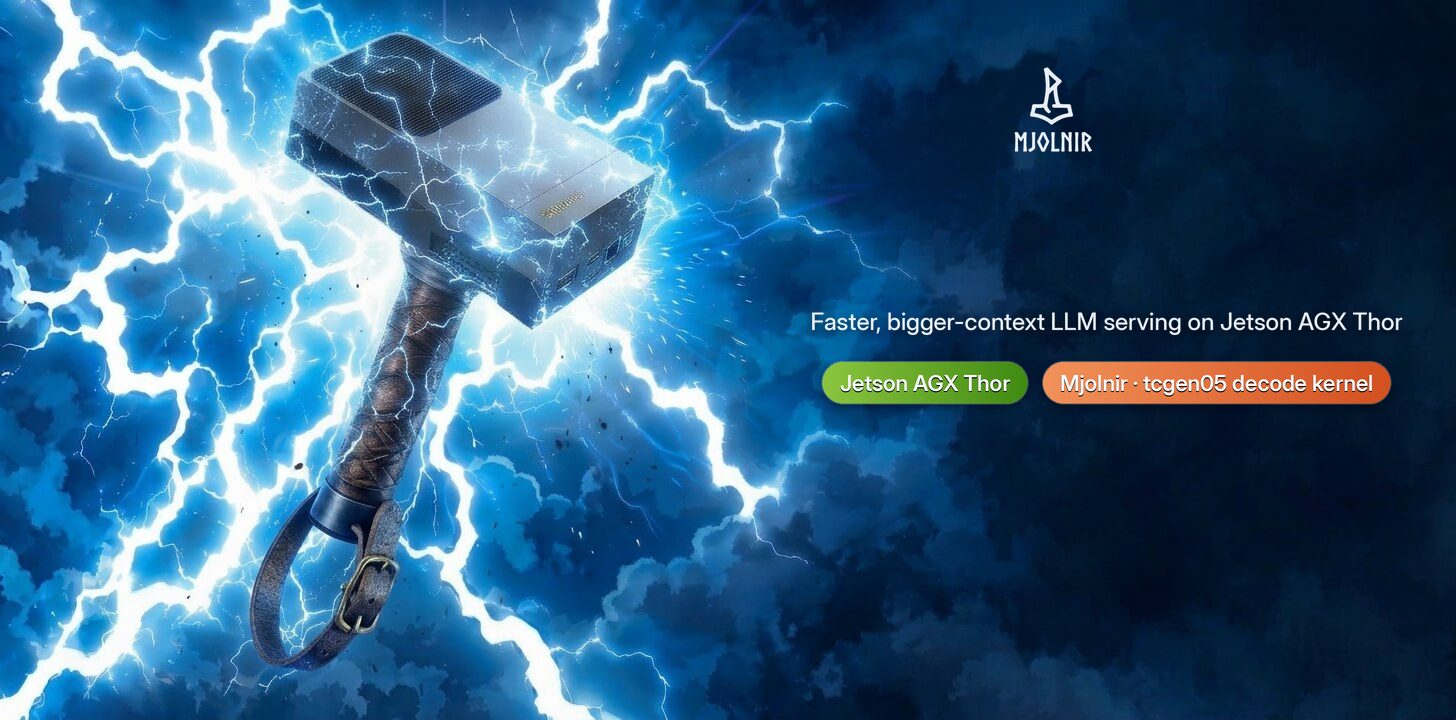
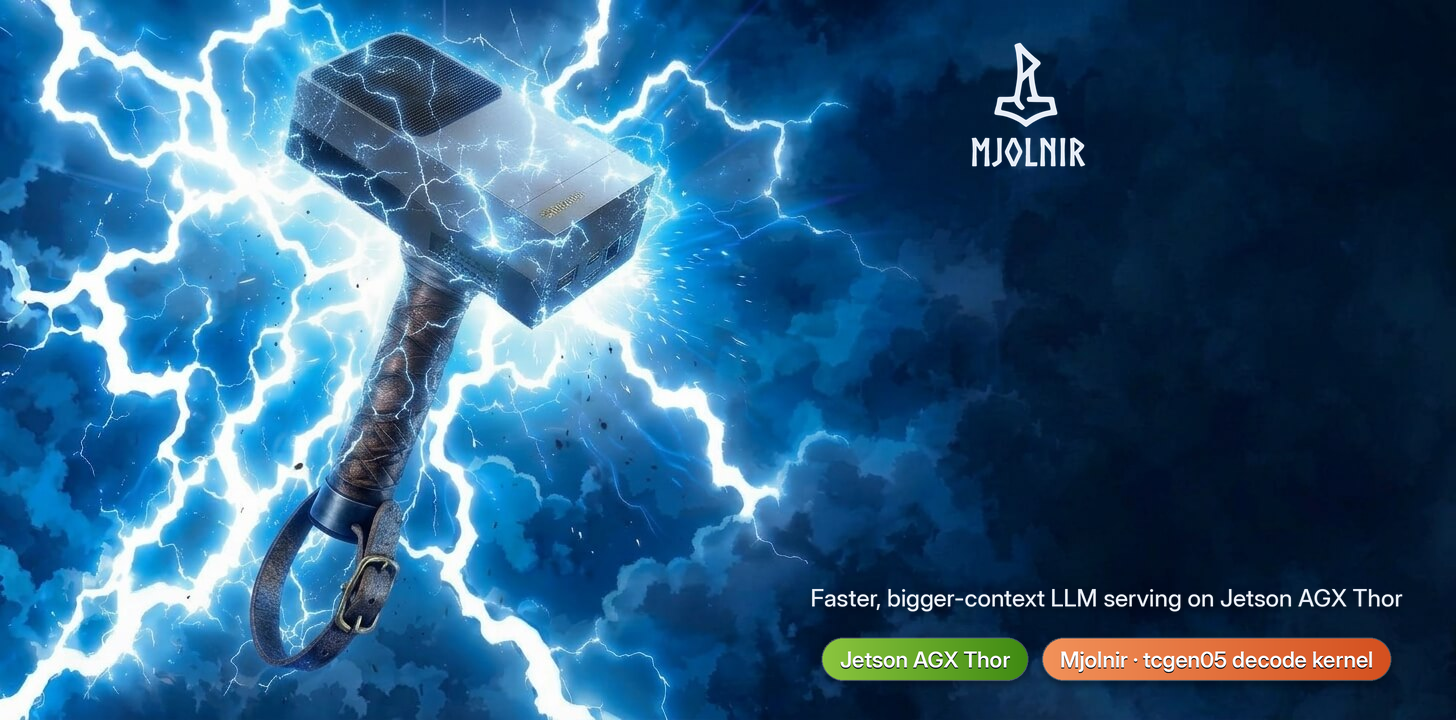
hero composition: a big logotype up top, slogan + pills anchored low

diff --git a/src/mjolnir-cli/mjolnir_cli/charts_e2e.py b/src/mjolnir-cli/mjolnir_cli/charts_e2e.py
@@ -262,15 +262,18 @@ def render_hero(layout: RepoLayout, platform: str | None = None) -> Path | None:
     shadow = Image.new("RGBA", (W * S, H * S), (0, 0, 0, 0))
     d, ds = ImageDraw.Draw(over), ImageDraw.Draw(shadow)
 
-    # the white logotype, centred on the right half
-    logo_h = round(H * 0.30)
-    lw = round(logo_img.size[0] * logo_h / logo_img.size[1])
-    logo = logo_img.resize((lw, logo_h), Image.Resampling.LANCZOS)
-    ly = round(H * 0.08)
-    over.alpha_composite(logo, (round(cx * S - lw * S / 2), ly * S))
+    # the white logotype, centred on the right half: big, near the top
+    logo_h = round(H * 0.44)
+    logo_w = round(logo_img.size[0] * logo_h / logo_img.size[1])
+    if logo_w > 0.40 * W:  # a wide wordmark variant: cap by width instead
+        logo_w = round(0.40 * W)
+        logo_h = round(logo_w * logo_img.size[1] / logo_img.size[0])
+    logo = logo_img.resize((logo_w, logo_h), Image.Resampling.LANCZOS)
+    ly = round(H * 0.04)
+    over.alpha_composite(logo, (round(cx * S - logo_w * S / 2), ly * S))
 
-    # slogan: centred line(s) under the logotype, shrunk to stay inside the
-    # dark right half (the art fills the left ~55%)
+    # slogan: centred line(s), shrunk to stay inside the dark right half
+    # (the art fills the left ~55%), stacked upward to end just above the pills
     slogan = ROOT_HERO_SLOGAN if platform is None else (PLATFORM_HERO_SLOGAN[platform],)
     max_w = 0.42 * W * S
     size = round(H * 0.040)
@@ -278,8 +281,11 @@ def render_hero(layout: RepoLayout, platform: str | None = None) -> Path | None:
     while size > round(H * 0.024) and max(d.textlength(ln, font=slogan_font) for ln in slogan) > max_w:
         size -= 1
         slogan_font = ImageFont.truetype(_font_file(fam, "medium"), size * S)
-    y = (ly + logo_h + H * 0.045) * S
     line_h = slogan_font.size * 1.38
+    # the pill row anchors the bottom; the slogan block sits right above it
+    pill_h = round(H * 0.060) * S
+    pills_y = round((H - 0.055 * H) * S) - pill_h
+    y = pills_y - round(H * 0.030 * S) - round(line_h * len(slogan))
     for line in slogan:
         w = d.textlength(line, font=slogan_font)
         x = cx * S - w / 2
@@ -290,7 +296,7 @@ def render_hero(layout: RepoLayout, platform: str | None = None) -> Path | None:
     # pills: one centred row, shrunk if it would run past the dark half
     pills = ROOT_HERO_PILLS if platform is None else PLATFORM_HERO_PILLS[platform]
     labels = [(t.format(vllm=VLLM_VERSION), c0, c1) for t, c0, c1 in pills]
-    pad_x, pill_h, gap = 18 * S, round(H * 0.060) * S, 14 * S
+    pad_x, pill_h, gap = 18 * S, pill_h, 14 * S
     size = round(H * 0.030)
     pill_font = ImageFont.truetype(_font_file(fam, "semibold"), size * S)
     row_w = lambda fs: sum(d.textlength(t, font=fs) + 2 * pad_x for t, _, _ in labels) + gap * (len(labels) - 1)  # noqa: E731
@@ -299,7 +305,7 @@ def render_hero(layout: RepoLayout, platform: str | None = None) -> Path | None:
         pill_font = ImageFont.truetype(_font_file(fam, "semibold"), size * S)
     widths = [d.textlength(t, font=pill_font) + 2 * pad_x for t, _, _ in labels]
     x = cx * S - (sum(widths) + gap * (len(widths) - 1)) / 2
-    y = int(y + H * 0.030 * S)
+    y = pills_y
     for (text, c0, c1), w in zip(labels, widths, strict=True):
         box = (int(x), y, int(x + w), y + pill_h)
         ds.rounded_rectangle((box[0], box[1] + 3 * S, box[2], box[3] + 3 * S), radius=pill_h // 2, fill=(0, 0, 0, 120))
